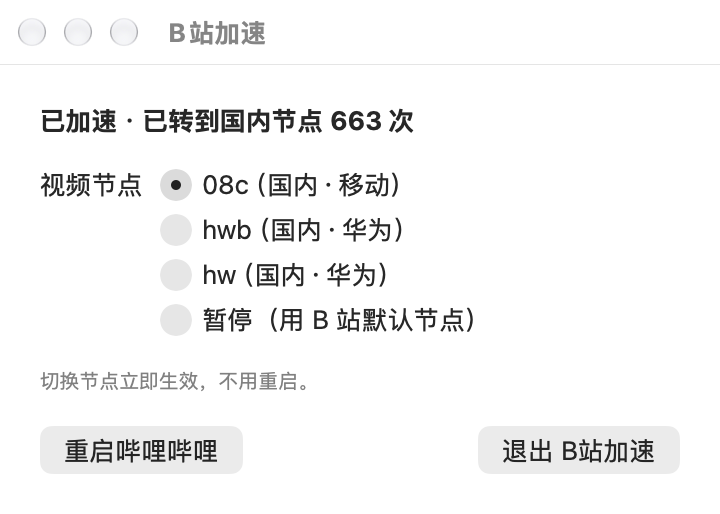
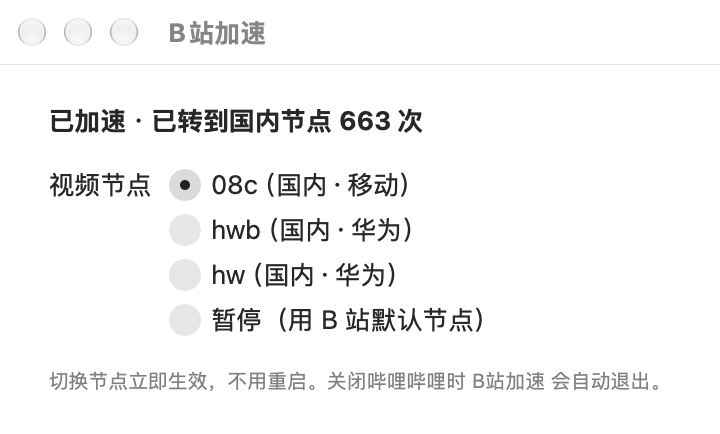
Simplify launcher UI and fix restart doing nothing
The restart button went through the normal launch path, which saw that
bilibili was already accelerated and just reopened the settings window.
Restarting isn't needed anyway: node changes apply live, and opening the
launcher while bilibili runs without the hook already offers a restart.

Remove the restart and quit buttons and the menu-bar menu; the menu-bar
icon now just opens the settings window. Update README and screenshot.

diff --git a/src/main.swift b/src/main.swift
@@ -122,7 +122,7 @@ func freePort() -> Int {
 
 // MARK: - App
 
-final class AppDelegate: NSObject, NSApplicationDelegate, NSMenuDelegate {
+final class AppDelegate: NSObject, NSApplicationDelegate {
     let statusItem = NSStatusBar.system.statusItem(withLength: NSStatusItem.variableLength)
     var biliPID: pid_t?
     var lastError: String?
@@ -130,21 +130,22 @@ final class AppDelegate: NSObject, NSApplicationDelegate, NSMenuDelegate {
     func applicationDidFinishLaunching(_ note: Notification) {
         if !FileManager.default.fileExists(atPath: configURL.path) { writeConfig(readConfig()) }
         statusItem.button?.image = NSImage(systemSymbolName: "bolt.horizontal.circle", accessibilityDescription: "B站加速")
-        let menu = NSMenu()
-        menu.delegate = self
-        statusItem.menu = menu
+        // The menu bar icon only opens the settings window (it may be hidden behind the notch,
+        // so the window is also reachable by opening B站加速 again).
+        statusItem.button?.target = self
+        statusItem.button?.action = #selector(showSettings)
 
         NSWorkspace.shared.notificationCenter.addObserver(
             self, selector: #selector(appTerminated(_:)),
             name: NSWorkspace.didTerminateApplicationNotification, object: nil)
 
-        Task { await startBili(askBeforeRestart: true) }
+        Task { await startBili() }
     }
 
     func applicationShouldHandleReopen(_ sender: NSApplication, hasVisibleWindows flag: Bool) -> Bool {
         // Clicking the launcher again while 哔哩哔哩 runs with the hook: open the settings window.
         // (The menu bar icon can end up hidden behind the notch.) Otherwise (re)start 哔哩哔哩.
-        if hooked { showSettings() } else { Task { await startBili(askBeforeRestart: true) } }
+        if hooked { showSettings() } else { Task { await startBili() } }
         return false
     }
 
@@ -152,8 +153,7 @@ final class AppDelegate: NSObject, NSApplicationDelegate, NSMenuDelegate {
 
     @objc func showSettings() {
         if settingsWindow == nil {
-            let view = SettingsView(status: { [weak self] in self?.statusText() ?? "" },
-                                    restart: { [weak self] in self?.restartBili() })
+            let view = SettingsView(status: { [weak self] in self?.statusText() ?? "" })
             let w = NSWindow(contentViewController: NSHostingController(rootView: view))
             w.title = "B站加速"
             w.styleMask = [.titled, .closable]
@@ -191,7 +191,7 @@ final class AppDelegate: NSObject, NSApplicationDelegate, NSMenuDelegate {
     }
 
     @MainActor
-    func startBili(askBeforeRestart: Bool) async {
+    func startBili() async {
         if let app = runningBili {
             if hooked {
                 // Already accelerated (e.g. the launcher was quit and reopened): show the settings.
@@ -199,17 +199,16 @@ final class AppDelegate: NSObject, NSApplicationDelegate, NSMenuDelegate {
                 showSettings()
                 return
             }
-            if askBeforeRestart {
-                NSApp.activate(ignoringOtherApps: true)
-                let alert = NSAlert()
-                alert.messageText = "哔哩哔哩已经在运行"
-                alert.informativeText = "需要重启哔哩哔哩才能启用 CDN 加速。"
-                alert.addButton(withTitle: "重启")
-                alert.addButton(withTitle: "取消")
-                if alert.runModal() != .alertFirstButtonReturn {
-                    if biliPID == nil { NSApp.terminate(nil) }
-                    return
-                }
+            // Opened without the hook (e.g. from its own Dock icon): offer to restart it.
+            NSApp.activate(ignoringOtherApps: true)
+            let alert = NSAlert()
+            alert.messageText = "哔哩哔哩已经在运行"
+            alert.informativeText = "需要重启哔哩哔哩才能启用 CDN 加速。"
+            alert.addButton(withTitle: "重启")
+            alert.addButton(withTitle: "取消")
+            if alert.runModal() != .alertFirstButtonReturn {
+                if biliPID == nil { NSApp.terminate(nil) }
+                return
             }
             app.terminate()
             for _ in 0..<60 where !app.isTerminated { try? await Task.sleep(nanoseconds: 250_000_000) }
@@ -264,56 +263,12 @@ final class AppDelegate: NSObject, NSApplicationDelegate, NSMenuDelegate {
         statusItem.button?.image = NSImage(systemSymbolName: "exclamationmark.triangle", accessibilityDescription: "B站加速出错")
     }
 
-    // MARK: Menu
-
-    func menuNeedsUpdate(_ menu: NSMenu) {
-        menu.removeAllItems()
-        let cfg = readConfig()
-        let s = NSMenuItem(title: statusText(), action: nil, keyEquivalent: "")
-        s.isEnabled = false
-        menu.addItem(s)
-        menu.addItem(.separator())
-
-        for n in nodes {
-            let item = NSMenuItem(title: n.label, action: #selector(pickNode(_:)), keyEquivalent: "")
-            item.target = self
-            item.representedObject = n.host
-            item.state = cfg.enabled && cfg.target == n.host ? .on : .off
-            menu.addItem(item)
-        }
-        let off = NSMenuItem(title: "暂停（用 B 站默认节点）", action: #selector(pickNode(_:)), keyEquivalent: "")
-        off.target = self
-        off.state = cfg.enabled ? .off : .on
-        menu.addItem(off)
-
-        menu.addItem(.separator())
-        let settings = NSMenuItem(title: "打开设置窗口…", action: #selector(showSettings), keyEquivalent: ",")
-        settings.target = self
-        menu.addItem(settings)
-        let restart = NSMenuItem(title: hooked ? "重启哔哩哔哩" : "重启哔哩哔哩并启用加速", action: #selector(restartBili), keyEquivalent: "r")
-        restart.target = self
-        menu.addItem(restart)
-        let quit = NSMenuItem(title: "退出 B站加速", action: #selector(NSApplication.terminate(_:)), keyEquivalent: "q")
-        menu.addItem(quit)
-    }
-
-    @objc func pickNode(_ sender: NSMenuItem) {
-        var cfg = readConfig()
-        if let host = sender.representedObject as? String { cfg.target = host; cfg.enabled = true }
-        else { cfg.enabled = false }
-        writeConfig(cfg) // the hook watches this file; no restart needed
-    }
-
-    @objc func restartBili() {
-        Task { await startBili(askBeforeRestart: false) }
-    }
 }
 
 // MARK: - Settings window
 
 struct SettingsView: View {
     let status: () -> String
-    let restart: () -> Void
     @State private var cfg = readConfig()
     @State private var statusLine = ""
     private let timer = Timer.publish(every: 2, on: .main, in: .common).autoconnect()
@@ -336,12 +291,9 @@ struct SettingsView: View {
                 Text("暂停（用 B 站默认节点）").tag("off")
             }
             .pickerStyle(.radioGroup)
-            Text("切换节点立即生效，不用重启。").font(.caption).foregroundStyle(.secondary)
-            HStack {
-                Button("重启哔哩哔哩", action: restart)
-                Spacer()
-                Button("退出 B站加速") { NSApp.terminate(nil) }
-            }
+            Text("切换节点立即生效，不用重启。关闭哔哩哔哩时 B站加速 会自动退出。")
+                .font(.caption).foregroundStyle(.secondary)
+                .fixedSize(horizontal: false, vertical: true)
         }
         .padding(20)
         .frame(width: 360)
@@ -355,7 +307,7 @@ struct SettingsView: View {
 func renderSnapshot(to path: String, status: String) {
     _ = NSApplication.shared
     NSApp.appearance = NSAppearance(named: .aqua)
-    let host = NSHostingView(rootView: SettingsView(status: { status }, restart: {}))
+    let host = NSHostingView(rootView: SettingsView(status: { status }))
     host.frame = NSRect(origin: .zero, size: host.fittingSize)
     let window = NSWindow(contentRect: host.frame, styleMask: [.titled, .closable], backing: .buffered, defer: false)
     window.title = "B站加速"

diff --git a/README.md b/README.md
@@ -30,11 +30,11 @@
 3. 哔哩哔哩运行时再点一次 B站加速，会打开设置窗口：
    - 查看状态（已转到国内节点多少次）
    - 切换节点：`08c` / `hwb` / `hw` / 暂停（切换立即生效，不用重启）
-   - 重启哔哩哔哩
 
-   <img src="docs/settings.png" width="360" alt="B站加速 设置窗口：状态、节点选择、重启按钮">
-4. 菜单栏也有一个 ⚡ 图标，功能相同（有刘海的 MacBook 上可能被挤到看不见）。
-5. 关闭哔哩哔哩时 B站加速 会自动退出。
+   <img src="docs/settings.png" width="360" alt="B站加速 设置窗口：状态和节点选择">
+4. 菜单栏的 ⚡ 图标也能打开这个窗口（有刘海的 MacBook 上它可能被挤到看不见，所以以点 B站加速 为主）。
+5. 如果哔哩哔哩是直接打开的（没加速），点 B站加速 会提示重启哔哩哔哩来启用加速。
+6. 关闭哔哩哔哩时 B站加速 会自动退出。
 
 ## 工作原理
 
